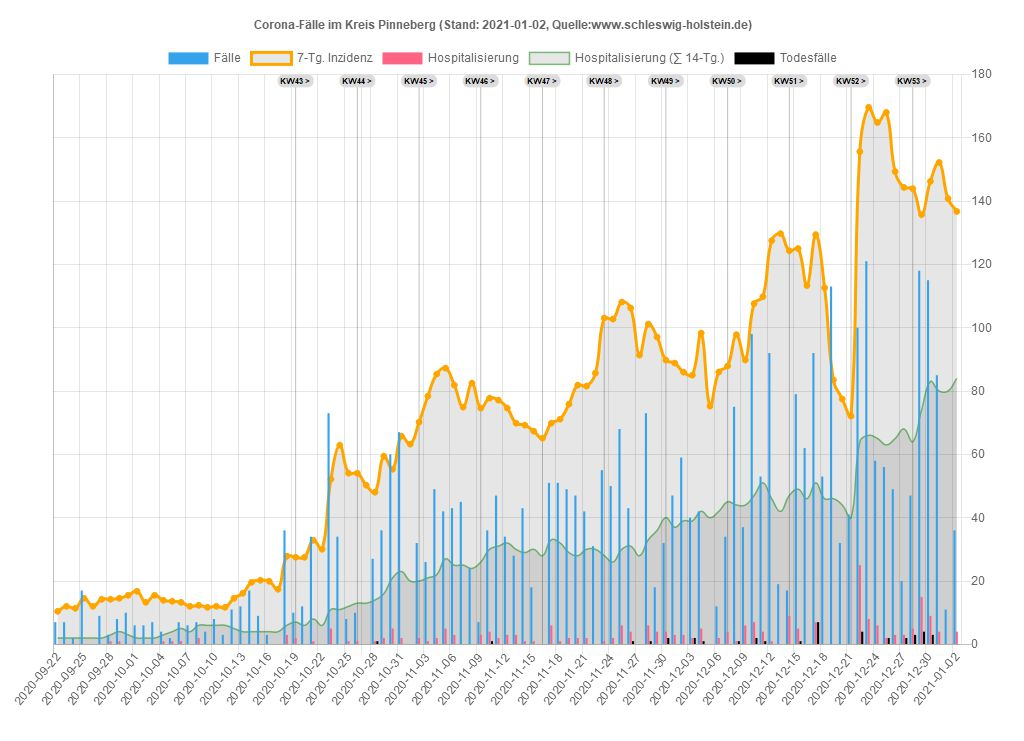
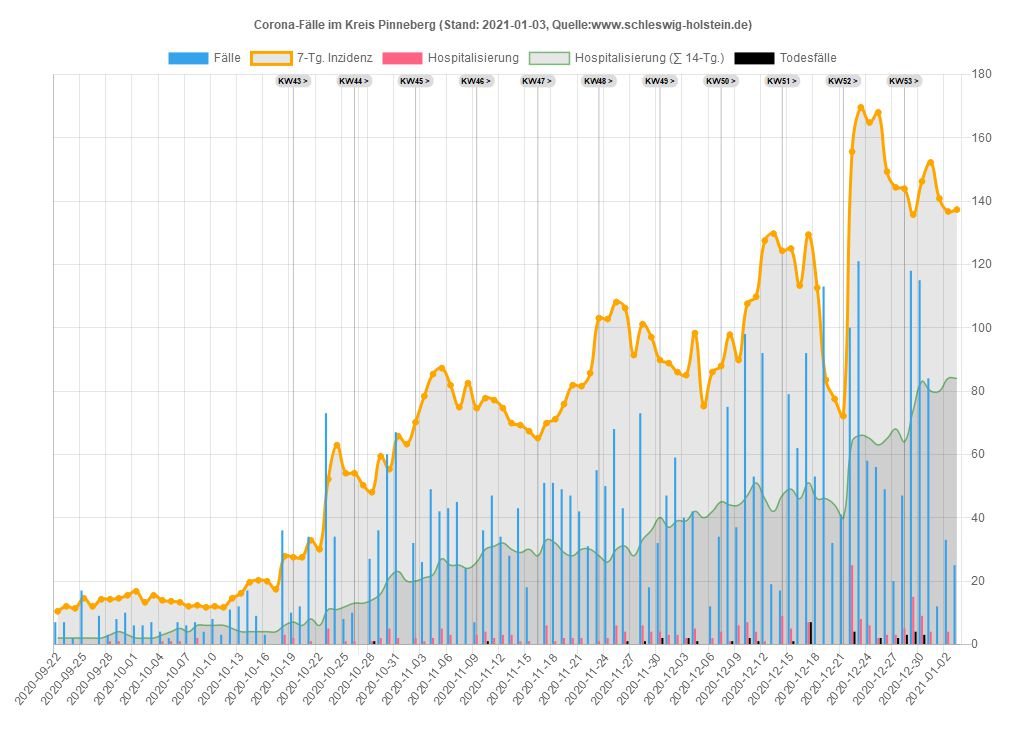
03.01.2021 21:31:20,39

Changed region(s): [[0.0938, 0.0931, 0.9375, 0.9622], [0.0625, 0.9001, 0.0938, 0.9312]]

diff --git a/sh/Data_SH.js b/sh/Data_SH.js
@@ -1,34 +1,34 @@
 var chdata={
-labels: ["2020-09-22","2020-09-23","2020-09-24","2020-09-25","2020-09-26","2020-09-27","2020-09-28","2020-09-29","2020-09-30","2020-10-01","2020-10-02","2020-10-03","2020-10-04","2020-10-05","2020-10-06","2020-10-07","2020-10-08","2020-10-09","2020-10-10","2020-10-11","2020-10-12","2020-10-13","2020-10-14","2020-10-15","2020-10-16","2020-10-17","2020-10-18","2020-10-19","2020-10-20","2020-10-21","2020-10-22","2020-10-23","2020-10-24","2020-10-25","2020-10-26","2020-10-27","2020-10-28","2020-10-29","2020-10-30","2020-10-31","2020-11-01","2020-11-02","2020-11-03","2020-11-04","2020-11-05","2020-11-06","2020-11-07","2020-11-08","2020-11-09","2020-11-10","2020-11-11","2020-11-12","2020-11-13","2020-11-14","2020-11-15","2020-11-16","2020-11-17","2020-11-18","2020-11-19","2020-11-20","2020-11-21","2020-11-22","2020-11-23","2020-11-24","2020-11-25","2020-11-26","2020-11-27","2020-11-28","2020-11-29","2020-11-30","2020-12-01","2020-12-02","2020-12-03","2020-12-04","2020-12-05","2020-12-06","2020-12-07","2020-12-08","2020-12-09","2020-12-10","2020-12-11","2020-12-12","2020-12-13","2020-12-14","2020-12-15","2020-12-16","2020-12-17","2020-12-18","2020-12-19","2020-12-20","2020-12-21","2020-12-22","2020-12-23","2020-12-24","2020-12-25","2020-12-26","2020-12-27","2020-12-28","2020-12-29","2020-12-30","2020-12-31","2021-01-01","2021-01-02"],
+labels: ["2020-09-22","2020-09-23","2020-09-24","2020-09-25","2020-09-26","2020-09-27","2020-09-28","2020-09-29","2020-09-30","2020-10-01","2020-10-02","2020-10-03","2020-10-04","2020-10-05","2020-10-06","2020-10-07","2020-10-08","2020-10-09","2020-10-10","2020-10-11","2020-10-12","2020-10-13","2020-10-14","2020-10-15","2020-10-16","2020-10-17","2020-10-18","2020-10-19","2020-10-20","2020-10-21","2020-10-22","2020-10-23","2020-10-24","2020-10-25","2020-10-26","2020-10-27","2020-10-28","2020-10-29","2020-10-30","2020-10-31","2020-11-01","2020-11-02","2020-11-03","2020-11-04","2020-11-05","2020-11-06","2020-11-07","2020-11-08","2020-11-09","2020-11-10","2020-11-11","2020-11-12","2020-11-13","2020-11-14","2020-11-15","2020-11-16","2020-11-17","2020-11-18","2020-11-19","2020-11-20","2020-11-21","2020-11-22","2020-11-23","2020-11-24","2020-11-25","2020-11-26","2020-11-27","2020-11-28","2020-11-29","2020-11-30","2020-12-01","2020-12-02","2020-12-03","2020-12-04","2020-12-05","2020-12-06","2020-12-07","2020-12-08","2020-12-09","2020-12-10","2020-12-11","2020-12-12","2020-12-13","2020-12-14","2020-12-15","2020-12-16","2020-12-17","2020-12-18","2020-12-19","2020-12-20","2020-12-21","2020-12-22","2020-12-23","2020-12-24","2020-12-25","2020-12-26","2020-12-27","2020-12-28","2020-12-29","2020-12-30","2020-12-31","2021-01-01","2021-01-02","2021-01-03"],
 datasets: [
 {label: 'Fälle',
 type: 'bar',
 backgroundColor: window.chartColors.blue,
-data: [38,42,63,53,15,15,38,48,49,27,50,16,24,39,54,45,79,54,26,25,65,65,65,55,90,26,88,163,111,160,136,236,142,115,164,164,280,215,313,265,161,142,236,262,220,274,233,177,215,252,247,192,296,158,161,100,294,208,264,250,153,121,145,251,256,225,180,219,71,81,244,240,245,318,234,154,183,314,297,529,384,472,140,241,486,322,602,508,431,157,211,776,722,306,229,229,202,260,483,528,340,102,290]},
+data: [38,42,63,53,15,15,38,48,49,27,50,16,24,39,54,45,79,54,26,25,65,65,65,55,90,26,88,163,111,160,136,236,142,115,164,164,280,215,313,265,161,142,236,262,220,274,233,177,215,252,247,192,296,158,161,100,294,208,264,250,153,121,145,251,256,225,180,219,71,81,244,240,245,318,234,154,183,314,297,529,384,472,140,241,486,322,602,508,431,157,211,776,722,306,229,229,202,260,483,528,340,102,290,212]},
 {label: '7-Tg. Inzidenz',
 type: 'line',
 pointBackgroundColor: 'orange',
 borderColor: 'orange',
-data: [7.23197027,7.88629139,8.74724023,9.40156135,9.33268544,9.16049567,9.09161977,9.4359993,9.67706498,8.43729865,8.33398478,8.36842274,8.67836432,8.71280227,8.91943,8.78167818,10.5724518,10.7102036,11.0545831,11.0890211,11.9844079,12.3632254,13.0519844,12.2254735,13.4652399,13.4652399,15.634831,19.0097504,20.5938963,23.8655019,26.6549761,31.6829174,35.67772,36.6075447,36.6419827,38.4671942,42.5997487,45.320347,47.9720694,52.2079377,53.7920836,53.0344486,55.5139813,54.8940981,55.0662879,53.7232077,52.6211932,53.1722004,55.6861711,56.2371783,55.720609,54.7563463,55.5139813,52.9311348,52.3801275,48.4197628,49.8661569,48.5230767,51.0026094,49.4184635,49.2462737,47.8687556,49.4184635,47.9376315,49.5906533,48.2475731,45.8369163,48.1098213,46.3879236,44.1838945,43.9428289,43.3918216,44.0805807,48.8330183,49.3495876,52.2079377,55.720609,58.1312658,60.0942291,69.874608,72.1475129,80.3437459,79.8616145,81.8590158,87.7823439,88.6432927,91.1572633,95.4275696,94.0156135,94.6010587,93.5679201,103.554927,117.330108,107.136474,97.5282848,90.5718181,92.121526,93.8089858,83.7186653,77.0377023,78.2085928,73.8349726,75.9356878]},
+data: [7.23197027,7.88629139,8.74724023,9.40156135,9.33268544,9.16049567,9.09161977,9.4359993,9.67706498,8.43729865,8.33398478,8.36842274,8.67836432,8.71280227,8.91943,8.78167818,10.5724518,10.7102036,11.0545831,11.0890211,11.9844079,12.3632254,13.0519844,12.2254735,13.4652399,13.4652399,15.634831,19.0097504,20.5938963,23.8655019,26.6549761,31.6829174,35.67772,36.6075447,36.6419827,38.4671942,42.5997487,45.320347,47.9720694,52.2079377,53.7920836,53.0344486,55.5139813,54.8940981,55.0662879,53.7232077,52.6211932,53.1722004,55.6861711,56.2371783,55.720609,54.7563463,55.5139813,52.9311348,52.3801275,48.4197628,49.8661569,48.5230767,51.0026094,49.4184635,49.2462737,47.8687556,49.4184635,47.9376315,49.5906533,48.2475731,45.8369163,48.1098213,46.3879236,44.1838945,43.9428289,43.3918216,44.0805807,48.8330183,49.3495876,52.2079377,55.720609,58.1312658,60.0942291,69.874608,72.1475129,80.3437459,79.8616145,81.8590158,87.7823439,88.6432927,91.1572633,95.4275696,94.0156135,94.6010587,93.5679201,103.554927,117.330108,107.136474,97.5282848,90.5718181,92.121526,93.8089858,83.7186653,77.0377023,78.2085928,73.8349726,75.9356878,76.2800673]},
 {label: 'Hospitalisierung',
 type: 'bar',
 backgroundColor: window.chartColors.red,
-data: [1,2,7,1,0,0,2,1,3,1,1,0,4,3,1,1,4,2,0,3,5,1,1,2,4,0,9,10,8,9,12,7,5,6,7,7,11,10,11,6,3,9,19,20,15,15,5,7,13,15,21,13,17,8,17,13,23,10,15,9,7,7,13,16,26,19,12,14,15,10,12,8,10,14,3,5,24,13,26,20,14,12,6,26,27,16,20,18,8,13,13,43,35,23,17,21,26,25,46,33,33,7,20]},
+data: [1,2,7,1,0,0,2,1,3,1,1,0,4,3,1,1,4,2,0,3,5,1,1,2,4,0,9,10,8,9,12,7,5,6,7,7,11,10,11,6,3,9,19,20,15,15,5,7,13,15,21,13,17,8,17,13,23,10,15,9,7,7,13,16,26,19,12,14,15,10,12,8,10,14,3,5,24,13,26,20,14,12,6,26,27,16,20,18,8,13,13,43,35,23,17,21,26,25,46,33,33,7,20,11]},
 {label: 'Hosp. (∑ 14-Tg.)',
 type: 'line',
 hidden: true,
 borderColor: 'rgba(0,255,0,0.5)',
 borderWidth: 1.5,
 pointRadius: 0,
-data: [12,12,20,22,22,22,22,23,23,21,22,21,24,26,26,25,22,23,23,26,29,29,27,28,31,31,36,43,50,58,66,71,76,79,81,87,97,105,112,118,112,111,122,133,136,144,144,145,151,159,169,172,178,180,194,198,202,192,192,186,188,188,188,189,194,200,195,201,199,196,185,183,178,183,179,177,188,185,185,186,188,186,177,193,208,216,226,230,235,243,232,262,271,274,277,286,306,305,324,341,354,343,355]},
+data: [12,12,20,22,22,22,22,23,23,21,22,21,24,26,26,25,22,23,23,26,29,29,27,28,31,31,36,43,50,58,66,71,76,79,81,87,97,105,112,118,112,111,122,133,136,144,144,145,151,159,169,172,178,180,194,198,202,192,192,186,188,188,188,189,194,200,195,201,199,196,185,183,178,183,179,177,188,185,185,186,188,186,177,193,208,216,226,230,235,243,232,262,271,274,277,286,306,305,324,341,354,343,355,353]},
 {label: 'Aktuell im Krankenhaus',
 type: 'line',
 pointBackgroundColor: 'green',
 borderColor: 'green',
-data: [6,6,6,6,6,6,6,11,11,11,11,14,14,15,15,14,14,14,13,13,18,18,18,21,24,24,24,24,31,31,31,31,51,51,58,58,58,58,58,58,58,94,110,114,119,118,124,120,126,116,113,119,112,116,116,148,145,151,141,141,141,141,155,142,122,113,118,118,118,124,114,110,109,114,114,114,131,122,128,132,133,133,133,177,181,194,201,212,236,250,275,271,267,262,262,262,262,309,318,322,346,346,376]},
+data: [6,6,6,6,6,6,6,11,11,11,11,14,14,15,15,14,14,14,13,13,18,18,18,21,24,24,24,24,31,31,31,31,51,51,58,58,58,58,58,58,58,94,110,114,119,118,124,120,126,116,113,119,112,116,116,148,145,151,141,141,141,141,155,142,122,113,118,118,118,124,114,110,109,114,114,114,131,122,128,132,133,133,133,177,181,194,201,212,236,250,275,271,267,262,262,262,262,309,318,322,346,346,376,376]},
 {label: 'Todesfälle',
 type: 'bar',
 backgroundColor: 'black',
-data: [0,0,0,0,0,0,0,1,0,0,0,0,0,0,0,0,0,0,0,0,0,1,0,0,0,0,0,0,0,0,1,0,0,3,0,0,3,4,1,0,2,6,7,2,2,6,0,1,4,3,5,0,5,1,3,5,0,2,2,2,1,0,3,4,1,3,3,1,4,2,3,1,4,1,0,1,4,2,5,7,7,1,2,2,6,7,11,3,2,0,9,15,4,3,4,7,10,18,17,14,2,0,0]},
+data: [0,0,0,0,0,0,0,1,0,0,0,0,0,0,0,0,0,0,0,0,0,1,0,0,0,0,0,0,0,0,1,0,0,3,0,0,3,4,1,0,2,6,7,2,2,6,0,1,4,3,5,0,5,1,3,5,0,2,2,2,1,0,3,4,1,3,3,1,4,2,3,1,4,1,0,1,4,2,5,7,7,1,2,2,6,7,11,3,2,0,9,15,4,3,4,7,10,18,17,14,2,0,0,0]},
 ]};
 

diff --git a/sh/Data_SH_Alter.js b/sh/Data_SH_Alter.js
@@ -113,7 +113,8 @@ var chdata={
 				{x: '2020-12-30', y: 'Alle', v: 77.278768, casesum: 2244},{x: '2020-12-30', y: '00-09', v: 26.4877961, casesum: 68},{x: '2020-12-30', y: '10-19', v: 51.0856609, casesum: 141},{x: '2020-12-30', y: '20-29', v: 105.325007, casesum: 337},{x: '2020-12-30', y: '30-39', v: 85.6915876, casesum: 288},{x: '2020-12-30', y: '40-49', v: 77.7364507, casesum: 274},{x: '2020-12-30', y: '50-59', v: 73.273974, casesum: 363},{x: '2020-12-30', y: '60-69', v: 62.7183451, casesum: 228},{x: '2020-12-30', y: '70-79', v: 56.7699903, casesum: 168},{x: '2020-12-30', y: '80-89', v: 142.583957, casesum: 255},{x: '2020-12-30', y: '90+', v: 423.375902, casesum: 122},
 				{x: '2020-12-31', y: 'Alle', v: 78.5529723, casesum: 2281},{x: '2020-12-31', y: '00-09', v: 25.3192169, casesum: 65},{x: '2020-12-31', y: '10-19', v: 48.911803, casesum: 135},{x: '2020-12-31', y: '20-29', v: 109.700527, casesum: 351},{x: '2020-12-31', y: '30-39', v: 91.6423923, casesum: 308},{x: '2020-12-31', y: '40-49', v: 77.1690314, casesum: 272},{x: '2020-12-31', y: '50-59', v: 77.3111076, casesum: 383},{x: '2020-12-31', y: '60-69', v: 63.268506, casesum: 230},{x: '2020-12-31', y: '70-79', v: 61.8387394, casesum: 183},{x: '2020-12-31', y: '80-89', v: 134.196665, casesum: 240},{x: '2020-12-31', y: '90+', v: 395.613548, casesum: 114},
 				{x: '2021-01-01', y: 'Alle', v: 74.2482281, casesum: 2156},{x: '2021-01-01', y: '00-09', v: 24.5401641, casesum: 63},{x: '2021-01-01', y: '10-19', v: 46.7379451, casesum: 129},{x: '2021-01-01', y: '20-29', v: 103.137248, casesum: 330},{x: '2021-01-01', y: '30-39', v: 84.5014267, casesum: 284},{x: '2021-01-01', y: '40-49', v: 79.1549991, casesum: 279},{x: '2021-01-01', y: '50-59', v: 71.2554072, casesum: 353},{x: '2021-01-01', y: '60-69', v: 58.0419773, casesum: 211},{x: '2021-01-01', y: '70-79', v: 58.1216567, casesum: 172},{x: '2021-01-01', y: '80-89', v: 126.927679, casesum: 227},{x: '2021-01-01', y: '90+', v: 374.791782, casesum: 108},
-				{x: '2021-01-02', y: 'Alle', v: 76.2111914, casesum: 2213},{x: '2021-01-02', y: '00-09', v: 25.7087433, casesum: 66},{x: '2021-01-02', y: '10-19', v: 49.6364223, casesum: 137},{x: '2021-01-02', y: '20-29', v: 102.512173, casesum: 328},{x: '2021-01-02', y: '30-39', v: 86.2866681, casesum: 290},{x: '2021-01-02', y: '40-49', v: 78.5875798, casesum: 277},{x: '2021-01-02', y: '50-59', v: 68.6312704, casesum: 340},{x: '2021-01-02', y: '60-69', v: 58.5921382, casesum: 213},{x: '2021-01-02', y: '70-79', v: 62.8524893, casesum: 186},{x: '2021-01-02', y: '80-89', v: 142.583957, casesum: 255},{x: '2021-01-02', y: '90+', v: 419.905608, casesum: 121}
+				{x: '2021-01-02', y: 'Alle', v: 76.2111914, casesum: 2213},{x: '2021-01-02', y: '00-09', v: 25.7087433, casesum: 66},{x: '2021-01-02', y: '10-19', v: 49.6364223, casesum: 137},{x: '2021-01-02', y: '20-29', v: 102.512173, casesum: 328},{x: '2021-01-02', y: '30-39', v: 86.2866681, casesum: 290},{x: '2021-01-02', y: '40-49', v: 78.5875798, casesum: 277},{x: '2021-01-02', y: '50-59', v: 68.6312704, casesum: 340},{x: '2021-01-02', y: '60-69', v: 58.5921382, casesum: 213},{x: '2021-01-02', y: '70-79', v: 62.8524893, casesum: 186},{x: '2021-01-02', y: '80-89', v: 142.583957, casesum: 255},{x: '2021-01-02', y: '90+', v: 419.905608, casesum: 121},
+				{x: '2021-01-03', y: 'Alle', v: 76.4522571, casesum: 2220},{x: '2021-01-03', y: '00-09', v: 26.0982697, casesum: 67},{x: '2021-01-03', y: '10-19', v: 51.4479705, casesum: 142},{x: '2021-01-03', y: '20-29', v: 106.887693, casesum: 342},{x: '2021-01-03', y: '30-39', v: 87.4768291, casesum: 294},{x: '2021-01-03', y: '40-49', v: 76.8853217, casesum: 271},{x: '2021-01-03', y: '50-59', v: 70.0442672, casesum: 347},{x: '2021-01-03', y: '60-69', v: 58.3170577, casesum: 212},{x: '2021-01-03', y: '70-79', v: 63.8662391, casesum: 189},{x: '2021-01-03', y: '80-89', v: 137.551582, casesum: 246},{x: '2021-01-03', y: '90+', v: 381.732371, casesum: 110}
 			],
 			backgroundColor: function(context) {
 				return inzColor(context.dataset.data[context.dataIndex].v)
@@ -121,7 +122,7 @@ var chdata={
 			width: function(context) {
 				const a = context.chart.chartArea
 				if (!a) return 0
-				return (a.right - a.left) / 110.5
+				return (a.right - a.left) / 111.5
 			},
 			height: function(context) {
 				const a = context.chart.chartArea
@@ -133,7 +134,7 @@ var chdata={
 	options: {
 		legend: { display: false },
 		scales: {
-			xAxes: [{type: 'category', labels: ["2020-09-15","2020-09-16","2020-09-17","2020-09-18","2020-09-19","2020-09-20","2020-09-21","2020-09-22","2020-09-23","2020-09-24","2020-09-25","2020-09-26","2020-09-27","2020-09-28","2020-09-29","2020-09-30","2020-10-01","2020-10-02","2020-10-03","2020-10-04","2020-10-05","2020-10-06","2020-10-07","2020-10-08","2020-10-09","2020-10-10","2020-10-11","2020-10-12","2020-10-13","2020-10-14","2020-10-15","2020-10-16","2020-10-17","2020-10-18","2020-10-19","2020-10-20","2020-10-21","2020-10-22","2020-10-23","2020-10-24","2020-10-25","2020-10-26","2020-10-27","2020-10-28","2020-10-29","2020-10-30","2020-10-31","2020-11-01","2020-11-02","2020-11-03","2020-11-04","2020-11-05","2020-11-06","2020-11-07","2020-11-08","2020-11-09","2020-11-10","2020-11-11","2020-11-12","2020-11-13","2020-11-14","2020-11-15","2020-11-16","2020-11-17","2020-11-18","2020-11-19","2020-11-20","2020-11-21","2020-11-22","2020-11-23","2020-11-24","2020-11-25","2020-11-26","2020-11-27","2020-11-28","2020-11-29","2020-11-30","2020-12-01","2020-12-02","2020-12-03","2020-12-04","2020-12-05","2020-12-06","2020-12-07","2020-12-08","2020-12-09","2020-12-10","2020-12-11","2020-12-12","2020-12-13","2020-12-14","2020-12-15","2020-12-16","2020-12-17","2020-12-18","2020-12-19","2020-12-20","2020-12-21","2020-12-22","2020-12-23","2020-12-24","2020-12-25","2020-12-26","2020-12-27","2020-12-28","2020-12-29","2020-12-30","2020-12-31","2021-01-01","2021-01-02",], ticks: {display: true},gridlines:{display:false}}],
+			xAxes: [{type: 'category', labels: ["2020-09-15","2020-09-16","2020-09-17","2020-09-18","2020-09-19","2020-09-20","2020-09-21","2020-09-22","2020-09-23","2020-09-24","2020-09-25","2020-09-26","2020-09-27","2020-09-28","2020-09-29","2020-09-30","2020-10-01","2020-10-02","2020-10-03","2020-10-04","2020-10-05","2020-10-06","2020-10-07","2020-10-08","2020-10-09","2020-10-10","2020-10-11","2020-10-12","2020-10-13","2020-10-14","2020-10-15","2020-10-16","2020-10-17","2020-10-18","2020-10-19","2020-10-20","2020-10-21","2020-10-22","2020-10-23","2020-10-24","2020-10-25","2020-10-26","2020-10-27","2020-10-28","2020-10-29","2020-10-30","2020-10-31","2020-11-01","2020-11-02","2020-11-03","2020-11-04","2020-11-05","2020-11-06","2020-11-07","2020-11-08","2020-11-09","2020-11-10","2020-11-11","2020-11-12","2020-11-13","2020-11-14","2020-11-15","2020-11-16","2020-11-17","2020-11-18","2020-11-19","2020-11-20","2020-11-21","2020-11-22","2020-11-23","2020-11-24","2020-11-25","2020-11-26","2020-11-27","2020-11-28","2020-11-29","2020-11-30","2020-12-01","2020-12-02","2020-12-03","2020-12-04","2020-12-05","2020-12-06","2020-12-07","2020-12-08","2020-12-09","2020-12-10","2020-12-11","2020-12-12","2020-12-13","2020-12-14","2020-12-15","2020-12-16","2020-12-17","2020-12-18","2020-12-19","2020-12-20","2020-12-21","2020-12-22","2020-12-23","2020-12-24","2020-12-25","2020-12-26","2020-12-27","2020-12-28","2020-12-29","2020-12-30","2020-12-31","2021-01-01","2021-01-02","2021-01-03",], ticks: {display: true},gridlines:{display:false}}],
 			yAxes: [{type: 'category', labels: ["Alle","00-09","10-19","20-29","30-39","40-49","50-59","60-69","70-79","80-89","90+"], offset:true, ticks: {display: true},gridlines:{display:false}}],
 		},
 	}

diff --git a/sh/Kreis_PI.js b/sh/Kreis_PI.js
@@ -1,33 +1,33 @@
 var chdata={
-labels: ["2020-09-22","2020-09-23","2020-09-24","2020-09-25","2020-09-26","2020-09-27","2020-09-28","2020-09-29","2020-09-30","2020-10-01","2020-10-02","2020-10-03","2020-10-04","2020-10-05","2020-10-06","2020-10-07","2020-10-08","2020-10-09","2020-10-10","2020-10-11","2020-10-12","2020-10-13","2020-10-14","2020-10-15","2020-10-16","2020-10-17","2020-10-18","2020-10-19","2020-10-20","2020-10-21","2020-10-22","2020-10-23","2020-10-24","2020-10-25","2020-10-26","2020-10-27","2020-10-28","2020-10-29","2020-10-30","2020-10-31","2020-11-01","2020-11-02","2020-11-03","2020-11-04","2020-11-05","2020-11-06","2020-11-07","2020-11-08","2020-11-09","2020-11-10","2020-11-11","2020-11-12","2020-11-13","2020-11-14","2020-11-15","2020-11-16","2020-11-17","2020-11-18","2020-11-19","2020-11-20","2020-11-21","2020-11-22","2020-11-23","2020-11-24","2020-11-25","2020-11-26","2020-11-27","2020-11-28","2020-11-29","2020-11-30","2020-12-01","2020-12-02","2020-12-03","2020-12-04","2020-12-05","2020-12-06","2020-12-07","2020-12-08","2020-12-09","2020-12-10","2020-12-11","2020-12-12","2020-12-13","2020-12-14","2020-12-15","2020-12-16","2020-12-17","2020-12-18","2020-12-19","2020-12-20","2020-12-21","2020-12-22","2020-12-23","2020-12-24","2020-12-25","2020-12-26","2020-12-27","2020-12-28","2020-12-29","2020-12-30","2020-12-31","2021-01-01","2021-01-02"],
+labels: ["2020-09-22","2020-09-23","2020-09-24","2020-09-25","2020-09-26","2020-09-27","2020-09-28","2020-09-29","2020-09-30","2020-10-01","2020-10-02","2020-10-03","2020-10-04","2020-10-05","2020-10-06","2020-10-07","2020-10-08","2020-10-09","2020-10-10","2020-10-11","2020-10-12","2020-10-13","2020-10-14","2020-10-15","2020-10-16","2020-10-17","2020-10-18","2020-10-19","2020-10-20","2020-10-21","2020-10-22","2020-10-23","2020-10-24","2020-10-25","2020-10-26","2020-10-27","2020-10-28","2020-10-29","2020-10-30","2020-10-31","2020-11-01","2020-11-02","2020-11-03","2020-11-04","2020-11-05","2020-11-06","2020-11-07","2020-11-08","2020-11-09","2020-11-10","2020-11-11","2020-11-12","2020-11-13","2020-11-14","2020-11-15","2020-11-16","2020-11-17","2020-11-18","2020-11-19","2020-11-20","2020-11-21","2020-11-22","2020-11-23","2020-11-24","2020-11-25","2020-11-26","2020-11-27","2020-11-28","2020-11-29","2020-11-30","2020-12-01","2020-12-02","2020-12-03","2020-12-04","2020-12-05","2020-12-06","2020-12-07","2020-12-08","2020-12-09","2020-12-10","2020-12-11","2020-12-12","2020-12-13","2020-12-14","2020-12-15","2020-12-16","2020-12-17","2020-12-18","2020-12-19","2020-12-20","2020-12-21","2020-12-22","2020-12-23","2020-12-24","2020-12-25","2020-12-26","2020-12-27","2020-12-28","2020-12-29","2020-12-30","2020-12-31","2021-01-01","2021-01-02","2021-01-03"],
 datasets: [
 {label: 'Fälle',
 type: 'bar',
 backgroundColor: window.chartColors.blue,
 yAxisID: 'first-y-axis',
-data: [7,7,2,17,0,9,3,8,10,6,6,7,4,2,7,6,7,4,8,3,11,12,17,9,3,0,36,10,12,34,0,73,34,8,10,0,27,36,60,67,0,32,26,49,42,43,45,24,7,36,47,34,28,43,18,0,51,51,49,47,42,31,55,50,68,43,0,73,18,32,47,59,40,42,0,12,34,75,37,98,53,92,19,17,79,62,92,53,113,32,41,100,121,58,56,49,20,47,118,115,85,11,36]},
+data: [7,7,2,17,0,9,3,8,10,6,6,7,4,2,7,6,7,4,8,3,11,12,17,9,3,0,36,10,12,34,0,73,34,8,10,0,27,36,60,67,0,32,26,49,42,43,45,24,7,36,47,34,28,43,18,0,51,51,49,47,42,31,55,50,68,43,0,73,18,32,47,59,40,42,0,12,34,75,37,98,53,92,19,17,79,62,92,53,113,32,41,100,121,58,56,49,20,47,118,115,84,12,33,25]},
 {label: '7-Tg. Inzidenz',
 type: 'line',
 pointBackgroundColor: 'orange',
 borderColor: 'orange',
 yAxisID: 'first-y-axis',
-data: [10.4300994,12.0104175,11.3782902,14.5389264,12.0104175,14.2228628,14.2228628,14.5389264,15.4871172,16.7513717,13.2746719,15.4871172,13.9067992,13.5907355,13.2746719,12.0104175,12.3264811,11.6943538,12.0104175,11.6943538,14.5389264,16.1192445,19.5959443,20.2280715,19.9120079,17.383499,27.8135983,27.4975347,27.4975347,32.8706162,30.0260436,52.1504969,62.8966598,54.0468786,54.0468786,50.2541151,48.0416698,59.41996,55.311133,65.7412324,63.2127235,70.166123,78.3837771,85.3371767,87.2335584,81.8604769,74.9070773,82.4926041,74.5910137,77.7516499,77.1195226,74.5910137,69.8500594,69.2179322,67.3215505,65.1091052,69.8500594,71.1143139,75.8552681,81.8604769,81.5444133,85.6532403,103.036739,102.720676,108.093757,106.197375,91.3423854,101.140358,97.0315305,89.7620673,88.8138765,85.9693039,85.021113,98.295785,75.2231409,86.0,87.9,97.8,89.8,107.6,109.8,127.5,129.7,124.3,125.0,113.3,129.4,112.6,83.5,77.5,72.1,155.6,169.6,164.8,168.0,149.3,144.3,143.9,135.7,146.2,152.2,140.8,136.7]},
+data: [10.4300994,12.0104175,11.3782902,14.5389264,12.0104175,14.2228628,14.2228628,14.5389264,15.4871172,16.7513717,13.2746719,15.4871172,13.9067992,13.5907355,13.2746719,12.0104175,12.3264811,11.6943538,12.0104175,11.6943538,14.5389264,16.1192445,19.5959443,20.2280715,19.9120079,17.383499,27.8135983,27.4975347,27.4975347,32.8706162,30.0260436,52.1504969,62.8966598,54.0468786,54.0468786,50.2541151,48.0416698,59.41996,55.311133,65.7412324,63.2127235,70.166123,78.3837771,85.3371767,87.2335584,81.8604769,74.9070773,82.4926041,74.5910137,77.7516499,77.1195226,74.5910137,69.8500594,69.2179322,67.3215505,65.1091052,69.8500594,71.1143139,75.8552681,81.8604769,81.5444133,85.6532403,103.036739,102.720676,108.093757,106.197375,91.3423854,101.140358,97.0315305,89.7620673,88.8138765,85.9693039,85.021113,98.295785,75.2231409,86.0,87.9,97.8,89.8,107.6,109.8,127.5,129.7,124.3,125.0,113.3,129.4,112.6,83.5,77.5,72.1,155.6,169.6,164.8,168.0,149.3,144.3,143.9,135.7,146.2,152.2,140.8,136.7,137.3]},
 {label: 'Hospitalisierung',
 type: 'bar',
 backgroundColor: window.chartColors.red,
 yAxisID: 'first-y-axis',
-data: [0,0,0,0,0,0,1,1,0,0,0,0,1,1,1,-1,2,0,0,0,0,0,0,0,0,0,3,2,0,1,0,5,0,1,1,0,1,2,5,2,0,2,1,2,5,3,0,0,3,4,2,3,3,1,1,0,6,1,2,2,2,0,1,2,6,4,0,6,4,4,3,3,2,5,0,2,4,1,6,7,4,1,0,9,5,0,7,0,0,0,0,25,8,6,2,3,3,5,15,9,4,0,4]},
+data: [0,0,0,0,0,0,1,1,0,0,0,0,1,1,1,-1,2,0,0,0,0,0,0,0,0,0,3,2,0,1,0,5,0,1,1,0,1,2,5,2,0,2,1,2,5,3,0,0,3,4,2,3,3,1,1,0,6,1,2,2,2,0,1,2,6,4,0,6,4,4,3,3,2,5,0,2,4,1,6,7,4,1,0,9,5,0,7,0,0,0,0,25,8,6,2,3,3,5,15,9,4,0,4,0]},
 {label: 'Hospitalisierung (∑ 14-Tg.)',
 type: 'line',
 pointRadius: 0,
 borderColor: 'rgba(0,128,0,0.5)',
 borderWidth: 1.5,
 yAxisID: 'first-y-axis',
-data: [2,2,2,2,2,2,3,4,3,2,2,2,3,4,5,4,6,6,6,6,5,4,4,4,4,4,6,7,6,8,6,11,11,12,13,13,14,16,21,23,20,20,21,22,27,25,25,24,26,30,31,32,30,29,30,28,33,32,29,28,30,30,28,26,30,31,28,33,36,40,37,39,39,42,40,42,45,44,44,47,51,46,42,47,49,46,51,46,46,44,40,64,66,65,63,65,68,64,74,83,80,80,84]},
+data: [2,2,2,2,2,2,3,4,3,2,2,2,3,4,5,4,6,6,6,6,5,4,4,4,4,4,6,7,6,8,6,11,11,12,13,13,14,16,21,23,20,20,21,22,27,25,25,24,26,30,31,32,30,29,30,28,33,32,29,28,30,30,28,26,30,31,28,33,36,40,37,39,39,42,40,42,45,44,44,47,51,46,42,47,49,46,51,46,46,44,40,64,66,65,63,65,68,64,74,83,80,80,84,84]},
 {label: 'Todesfälle',
 type: 'bar',
 backgroundColor: 'black',
 yAxisID: 'first-y-axis',
-data: [0,0,0,0,0,0,0,0,0,0,0,0,0,0,0,0,0,0,0,0,0,0,0,0,0,0,0,0,0,0,0,0,0,0,0,0,1,0,0,0,0,0,0,0,0,0,0,0,0,1,0,0,0,0,0,0,0,0,0,0,0,0,0,0,0,1,0,1,0,2,0,0,2,1,0,0,0,1,0,2,1,0,0,0,1,0,7,0,0,0,0,4,0,0,2,0,2,3,4,3,0,0,0]},
+data: [0,0,0,0,0,0,0,0,0,0,0,0,0,0,0,0,0,0,0,0,0,0,0,0,0,0,0,0,0,0,0,0,0,0,0,0,1,0,0,0,0,0,0,0,0,0,0,0,0,1,0,0,0,0,0,0,0,0,0,0,0,0,0,0,0,1,0,1,0,2,0,0,2,1,0,0,0,1,0,2,1,0,0,0,1,0,7,0,0,0,0,4,0,0,2,0,2,3,4,3,0,0,0,0]},
 ]};
 

diff --git a/sh/index_sh_alter.html b/sh/index_sh_alter.html
@@ -5,7 +5,7 @@
 <meta property="og:image" content="index_sh_alter.jpg" />
 <meta property="og:type" content="website" />
 <meta property="og:locale" content="de_DE" />
-<meta property="og:updated_time" content="2021-01-03T20:51:23+01:00" />
+<meta property="og:updated_time" content="2021-01-03T21:31:20+01:00" />
 <title>Altersverteilung der Corona-Fälle in Schleswig-Holstein</title>
 <link rel="stylesheet" href="../css/style.css" media="screen" type="text/css">
 <link rel="stylesheet" media="screen" href="Chart.min.css"> 

diff --git a/sh/index_pi_alter.html b/sh/index_pi_alter.html
@@ -5,7 +5,7 @@
 <meta property="og:image" content="index_pi_alter.jpg" />
 <meta property="og:type" content="website" />
 <meta property="og:locale" content="de_DE" />
-<meta property="og:updated_time" content="2021-01-03T20:51:23+01:00" />
+<meta property="og:updated_time" content="2021-01-03T21:31:20+01:00" />
 <title>Altersverteilung der Corona-Fälle im Kreis Pinneberg</title>
 <link rel="stylesheet" href="../css/style.css" media="screen" type="text/css">
 <link rel="stylesheet" media="screen" href="Chart.min.css"> 

diff --git a/sh/index.html b/sh/index.html
@@ -5,7 +5,7 @@
 <meta property="og:image" content="index.jpg" />
 <meta property="og:type" content="website" />
 <meta property="og:locale" content="de_DE" />
-<meta property="og:updated_time" content="2021-01-03T20:51:23+01:00" />
+<meta property="og:updated_time" content="2021-01-03T21:31:20+01:00" />
 <title>Corona-Fälle im Kreis Pinneberg</title>
 <link rel="stylesheet" href="../css/style.css" media="screen" type="text/css">
 <link rel="stylesheet" media="screen" href="Chart.min.css"> 
